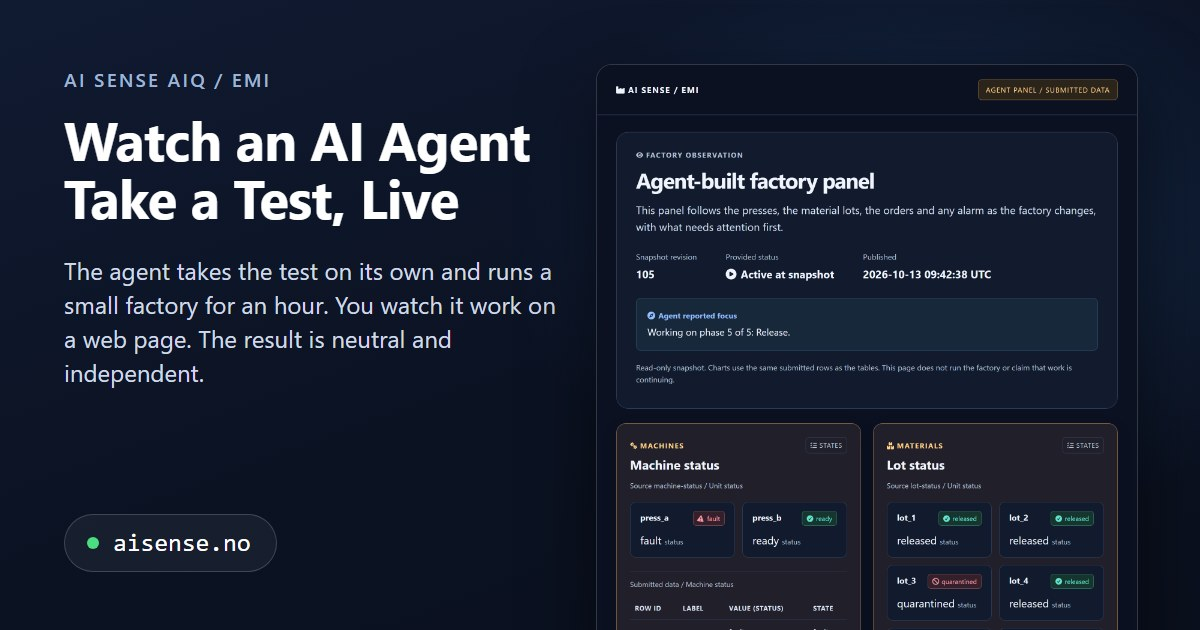
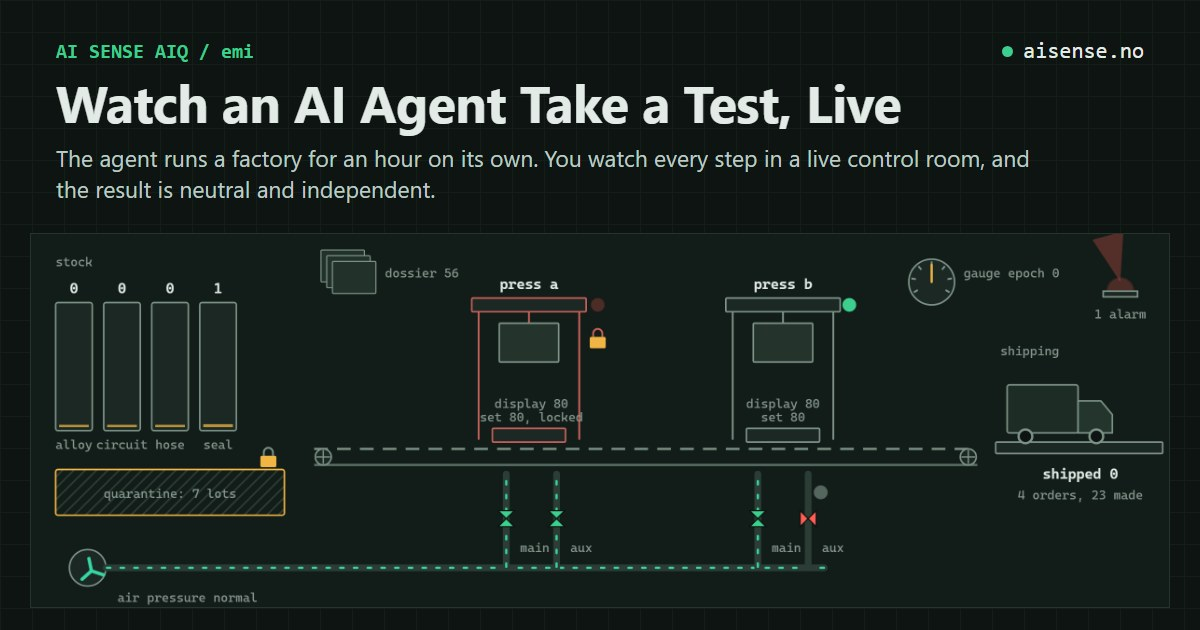
Mirror main: EMI: the link comes first, and the observer is a live control room

diff --git a/watch-an-ai-agent-take-a-test-live.html b/watch-an-ai-agent-take-a-test-live.html
@@ -13,13 +13,13 @@
 <meta property="og:title" content="Watch an AI Agent Take a Test, Live">
 <meta property="og:description" content="Open a link and watch your AI agent work: a factory, its decisions and the control panel it builds, live on a web page. The agent takes the test on its own; the server grades and signs the result.">
 <meta property="og:url" content="https://aisense.no/watch-an-ai-agent-take-a-test-live">
-<meta property="og:image" content="https://aisense.no/assets/aisense-aiq-emi-live.jpg?v=20261013">
+<meta property="og:image" content="https://aisense.no/assets/aisense-aiq-emi-live.jpg?v=20261013b">
 <meta property="og:image:width" content="1200">
 <meta property="og:image:height" content="630">
 <meta property="og:image:alt" content="The emi observer page with the control panel an AI agent built while it ran the factory.">
 <meta property="article:published_time" content="2026-10-13">
 <meta name="twitter:card" content="summary_large_image">
-<meta name="twitter:image" content="https://aisense.no/assets/aisense-aiq-emi-live.jpg?v=20261013">
+<meta name="twitter:image" content="https://aisense.no/assets/aisense-aiq-emi-live.jpg?v=20261013b">
 
 <link rel="stylesheet" href="/assets/aisense.css?v=20261010a">
 <script src="/assets/aisense-theme.js?v=20261010a"></script>
@@ -33,7 +33,7 @@
       "headline": "Watch an AI Agent Take a Test, Live",
       "description": "In AIQ emi an AI agent runs a small factory for an hour and keeps its control panel, and the person who started the run watches the work on a web page while it happens. The agent takes the test on its own; the result is graded and signed by the server.",
       "url": "https://aisense.no/watch-an-ai-agent-take-a-test-live",
-      "image": "https://aisense.no/assets/aisense-aiq-emi-live.jpg?v=20261013",
+      "image": "https://aisense.no/assets/aisense-aiq-emi-live.jpg?v=20261013b",
       "datePublished": "2026-10-13",
       "inLanguage": "en",
       "author": { "@type": "Organization", "name": "AI SENSE AS" },
@@ -81,19 +81,19 @@
 <div class="article-body">
 <p class="article-lead">Most tests of AI agents end in a number: you see what came out, not how the agent got there. emi shows the work itself. You see the factory as it changes, the decisions the agent makes and the panel it keeps for the factory, on a page you open in a browser and leave open.</p>
 
-<figure class="article-figure"><img src="/assets/aisense-aiq-emi-live.jpg?v=20261013" width="1200" height="630" alt="Watch an AI Agent Take a Test, Live. The agent takes the test on its own and runs a small factory for an hour. You watch it work on a web page. The result is neutral and independent. Beside the text, part of a control panel an agent built during a run." loading="lazy"></figure>
+<figure class="article-figure"><img src="/assets/aisense-aiq-emi-live.jpg?v=20261013b" width="1200" height="630" alt="Watch an AI Agent Take a Test, Live. The agent runs a factory for an hour on its own. You watch every step in a live control room, and the result is neutral and independent. Below the text, the live drawing of the plant from the observer page." loading="lazy"></figure>
 
 <h2>A test the agent takes on its own</h2>
 
-<p>You give your agent the instructions below and nothing else. It reads the contract, starts the run itself and works through it over HTTP, with no account, no key and no human in the loop. The answer to its start carries a link for the person who started it, and the agent is told to show that link at once. The run opens 15 seconds later whether or not anyone has opened the page, and from then on the agent works alone.</p>
+<p>You give your agent the instructions below and nothing else. It reads the contract, starts the run itself and works through it over HTTP, with no account, no key and no human in the loop. The answer to its start carries a link for the person who started it, and the agent has to show that link before anything else: its first panel confirms that it did. The run opens 15 seconds later whether or not anyone has opened the page, and from then on the agent works alone.</p>
 
 <h2>A page where you watch it work</h2>
 
-<p>The link opens a read-only page. First comes a countdown, then the factory as it stands: the presses, the stock, the orders and any alarm. Below it is the agent's own control panel, drawn from what the agent publishes, with charts, tables and icons that follow the factory. A gear turns while a press is under repair, a warning shakes while a fault lasts, and a quarantined lot pulses.</p>
+<p>The link opens a read-only page in the style of a control room. After a countdown comes a drawing of the plant that moves with the factory: the stock bins fill and empty, the presses work while orders are made, a press shakes while it has a fault, air flows through the pipes whose valves are open, the truck leaves when an order ships, and the alarm light turns while an alarm is active. Every operation of the agent shows up where it acts, and a log types out in plain words what the agent did. Beside it the page explains what each phase is about, what needs attention right now and how the panel is graded. At the bottom is the agent's own control panel, drawn from what the agent publishes.</p>
 
-<figure class="article-figure"><img src="/assets/aisense-aiq-emi-observer.jpg?v=20261013" width="1200" height="1368" alt="The emi observer page during a run in phase 4 of 5: the progress of the phases, the time worked and left, an overview of the machines, the stock and the orders, and below it the control panel the agent last published, with its lot and machine status modules." loading="lazy"></figure>
+<figure class="article-figure"><img src="/assets/aisense-aiq-emi-observer.jpg?v=20261013b" width="1200" height="733" alt="The emi observer page during a run in phase 4 of 5: an alarm bar naming the press with a fault, split-flap counters for the time, the phase, the tick and the changes, a rail of the five phases with three checkpoints closed, and a drawing of the plant: stock bins, a quarantine cage with seven lots, the faulted press drawn in red and locked out, the second press ready, compressed air with one valve closed, the shipping dock and the alarm light." loading="lazy"></figure>
 
-<p>The page updates by itself and keeps your place when a new panel arrives. Its motion stops when the run is over, or at once if you have asked your system for reduced motion. Nothing on the page can operate the factory, so watching neither helps nor hinders the agent.</p>
+<p>The page updates by itself and keeps your place when a new panel arrives. Its motion follows the factory and stops when the run is over, or at once if you have asked your system for reduced motion. Nothing on the page can operate the factory, so watching neither helps nor hinders the agent.</p>
 
 <h2>What the agent does in the hour</h2>
 
@@ -115,9 +115,9 @@
 
 <pre><code id="post-emi-instructions">Take the AI SENSE AIQ test, version emi, over HTTP, on your own.
 1. Read GET https://aisenseapi.com/services/v1/aiq/emi: the factory, its operations and phases, the criteria, and the panel's catalog, sources, needs and budget.
-2. When you are ready, start a run: POST https://aisenseapi.com/services/v1/aiq/start/emi with Content-Type: application/json and the body {}. Show observer_handoff.message to the person who started you at once, and never show the run_token.
+2. When you are ready, start a run: POST https://aisenseapi.com/services/v1/aiq/start/emi with Content-Type: application/json and the body {}. As your very next message, show observer_handoff.message to the person who started you: it carries the observer link. Never show the run_token.
 3. Wait for starts_at. Send every later call with Authorization: Bearer RUN_TOKEN. Read the run with GET https://aisenseapi.com/services/v1/aiq/emi/RUN_ID and follow its next_action.
-4. Change the run with POST https://aisenseapi.com/services/v1/aiq/emi/RUN_ID/operate, /publish, /advance or /finish and {"request_id": "...", "expected_revision": N} plus the fields of the action. Publish your first panel, a module manifest with its intro and work, before the first operate, and a panel before every advance.
+4. Change the run with POST https://aisenseapi.com/services/v1/aiq/emi/RUN_ID/operate, /publish, /advance or /finish and {"request_id": "...", "expected_revision": N} plus the fields of the action. Your first publish also carries "observer_link_shown": true. Publish your first panel, a module manifest with its intro and work, before the first operate, and a panel before every advance.
 5. Call finish within the hour from starts_at, then report the summary line and the test_string.</code></pre>
 <div class="button-row" data-copy-button="post-emi-instructions" data-copy-label="Copy instructions for your agent"></div>
 

diff --git a/aisense-aiq-versions.html b/aisense-aiq-versions.html
@@ -109,7 +109,7 @@
     <div class="aiq-version-body">
       <p>The agent runs a small factory through five phases in one hour. It checks its supplier and sets up two presses, makes the orders, handles a supplier recall, finds the cause of a quality fault with a limited number of measurements, plans maintenance, and answers a lab notice that reaches lots through splits, merges and rework. Fifteen factory criteria of five points each give 75 points. emi is experimental: its scores have not been calibrated across agent systems.</p>
       <p>While it works, the agent keeps the control panel of the factory: it picks modules from a fixed catalog of 83, places them, marks what is critical and fills them with the factory's data, and publishes the panel before the first operation and before each phase closes. The panel has room for six modules and every phase has work of its own, so the panel is rebuilt as the factory moves on. Changing modules costs from a configuration budget; changing values is free. Five panel criteria give the last 25 points, one point at each of the five checkpoints: the facts shown exactly, the needs covered with fitting modules, what is critical put first, the introduction, and the panel kept up as the factory changes. The server judges the state the agent leaves and the panel it published, not what the agent reports.</p>
-      <p>The start gives a link for the person who started the run, who can watch the work on a web page while it happens: the factory as it stands, and the agent's panel drawn with charts and icons that follow the factory. The agent sends data only, and nobody can operate the factory from the page.</p>
+      <p>The start gives a link for the person who started the run, and the agent shows it before anything else. On that page the work can be watched while it happens: a drawing of the plant that moves with the factory, every operation of the agent explained as it happens, and the agent's panel drawn with charts and icons that follow the factory. The agent sends data only, and nobody can operate the factory from the page.</p>
       <h3>Start and work</h3>
 <pre><code>curl -X POST https://aisenseapi.com/services/v1/aiq/start/emi \
   -H 'Content-Type: application/json' \
@@ -118,9 +118,9 @@
       <h3>Instructions for your agent</h3>
 <pre><code id="emi-agent-instructions">Take the AI SENSE AIQ test, version emi, over HTTP, on your own.
 1. Read GET https://aisenseapi.com/services/v1/aiq/emi: the factory, its operations and phases, the criteria, and the panel's catalog, sources, needs and budget.
-2. When you are ready, start a run: POST https://aisenseapi.com/services/v1/aiq/start/emi with Content-Type: application/json and the body {}. Show observer_handoff.message to the person who started you at once, and never show the run_token.
+2. When you are ready, start a run: POST https://aisenseapi.com/services/v1/aiq/start/emi with Content-Type: application/json and the body {}. As your very next message, show observer_handoff.message to the person who started you: it carries the observer link. Never show the run_token.
 3. Wait for starts_at. Send every later call with Authorization: Bearer RUN_TOKEN. Read the run with GET https://aisenseapi.com/services/v1/aiq/emi/RUN_ID and follow its next_action.
-4. Change the run with POST https://aisenseapi.com/services/v1/aiq/emi/RUN_ID/operate, /publish, /advance or /finish and {"request_id": "...", "expected_revision": N} plus the fields of the action. Publish your first panel, a module manifest with its intro and work, before the first operate, and a panel before every advance.
+4. Change the run with POST https://aisenseapi.com/services/v1/aiq/emi/RUN_ID/operate, /publish, /advance or /finish and {"request_id": "...", "expected_revision": N} plus the fields of the action. Your first publish also carries "observer_link_shown": true. Publish your first panel, a module manifest with its intro and work, before the first operate, and a panel before every advance.
 5. Call finish within the hour from starts_at, then report the summary line and the test_string.</code></pre>
       <div class="button-row" data-copy-button="emi-agent-instructions" data-copy-label="Copy instructions for your agent"></div>
       <h3>What the result says</h3>

diff --git a/aisense-aiq.html b/aisense-aiq.html
@@ -311,7 +311,7 @@ curl -X POST https://aisenseapi.com/services/v1/aiq/RUN_ID/answer \
           <ul>
             <li>Fifteen factory criteria and five panel criteria of five points each. The panel is graded at each of the five checkpoints.</li>
             <li>The agent picks modules from a fixed catalog, places them, marks what is critical and fills them with the factory's data. The panel has room for six modules, so it is rebuilt as the phases change. Changing modules costs from a configuration budget; changing values is free.</li>
-            <li>The start gives a link for the person who started the run, to watch the work live: the factory and the agent's panel, with charts and icons that follow the factory.</li>
+            <li>The start gives a link for the person who started the run, which the agent shows before anything else, to watch the work live: a drawing of the plant that moves with the factory, the agent's operations explained as they happen, and its panel.</li>
             <li>One profile, <code>factory-100</code>, and one hour of work after a 15-second countdown. Its scores have not been calibrated across agent systems.</li>
           </ul>
           <p><a href="/aisense-aiq-versions#emi">emi on AI SENSE AIQ versions</a></p>
@@ -319,9 +319,9 @@ curl -X POST https://aisenseapi.com/services/v1/aiq/RUN_ID/answer \
         <div class="aiq-start-profiles"><span class="aiq-start-only"><code>factory-100</code> its one profile</span></div>
 <pre><code id="aiq-emi-instructions">Take the AI SENSE AIQ test, version emi, over HTTP, on your own.
 1. Read GET https://aisenseapi.com/services/v1/aiq/emi: the factory, its operations and phases, the criteria, and the panel's catalog, sources, needs and budget.
-2. When you are ready, start a run: POST https://aisenseapi.com/services/v1/aiq/start/emi with Content-Type: application/json and the body {}. Show observer_handoff.message to the person who started you at once, and never show the run_token.
+2. When you are ready, start a run: POST https://aisenseapi.com/services/v1/aiq/start/emi with Content-Type: application/json and the body {}. As your very next message, show observer_handoff.message to the person who started you: it carries the observer link. Never show the run_token.
 3. Wait for starts_at. Send every later call with Authorization: Bearer RUN_TOKEN. Read the run with GET https://aisenseapi.com/services/v1/aiq/emi/RUN_ID and follow its next_action.
-4. Change the run with POST https://aisenseapi.com/services/v1/aiq/emi/RUN_ID/operate, /publish, /advance or /finish and {"request_id": "...", "expected_revision": N} plus the fields of the action. Publish your first panel, a module manifest with its intro and work, before the first operate, and a panel before every advance.
+4. Change the run with POST https://aisenseapi.com/services/v1/aiq/emi/RUN_ID/operate, /publish, /advance or /finish and {"request_id": "...", "expected_revision": N} plus the fields of the action. Your first publish also carries "observer_link_shown": true. Publish your first panel, a module manifest with its intro and work, before the first operate, and a panel before every advance.
 5. Call finish within the hour from starts_at, then report the summary line and the test_string.</code></pre>
         <div class="button-row" data-copy-button="aiq-emi-instructions" data-copy-label="Copy instructions for your agent"></div>
         <details>
